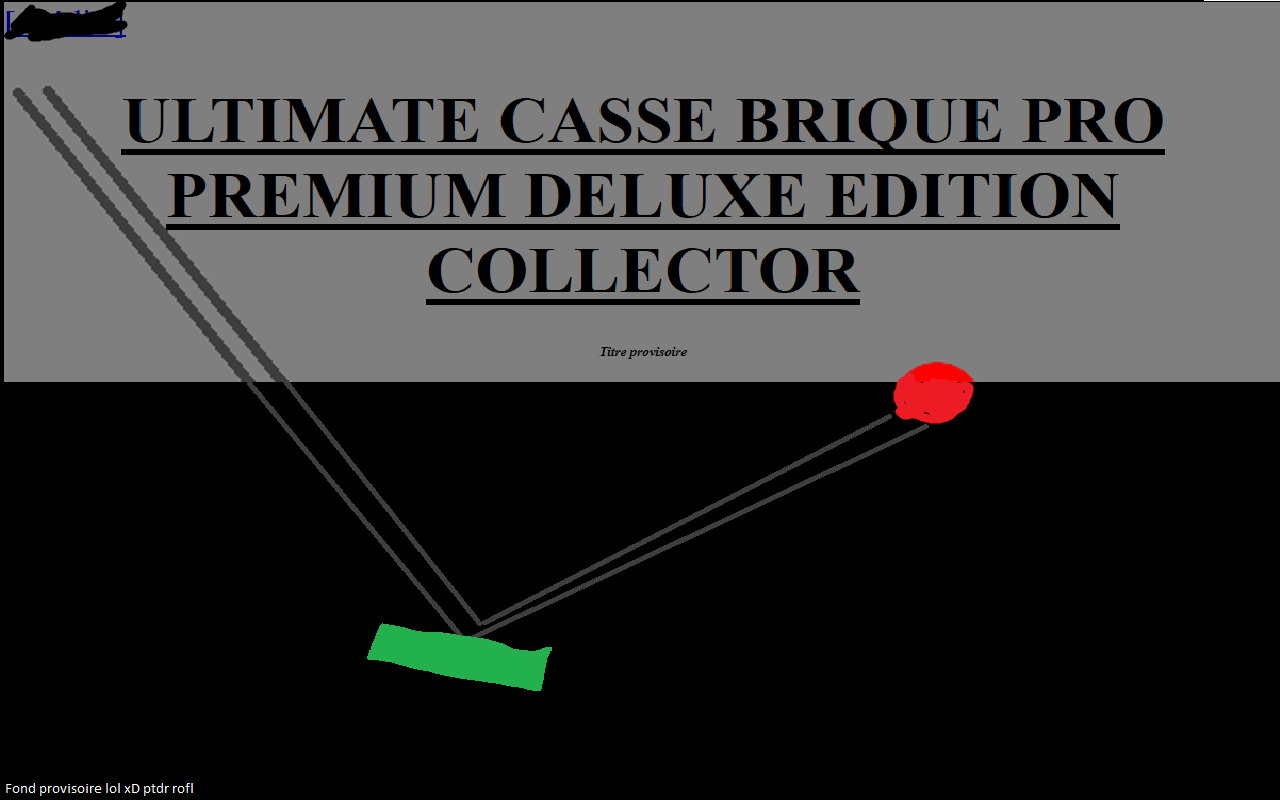
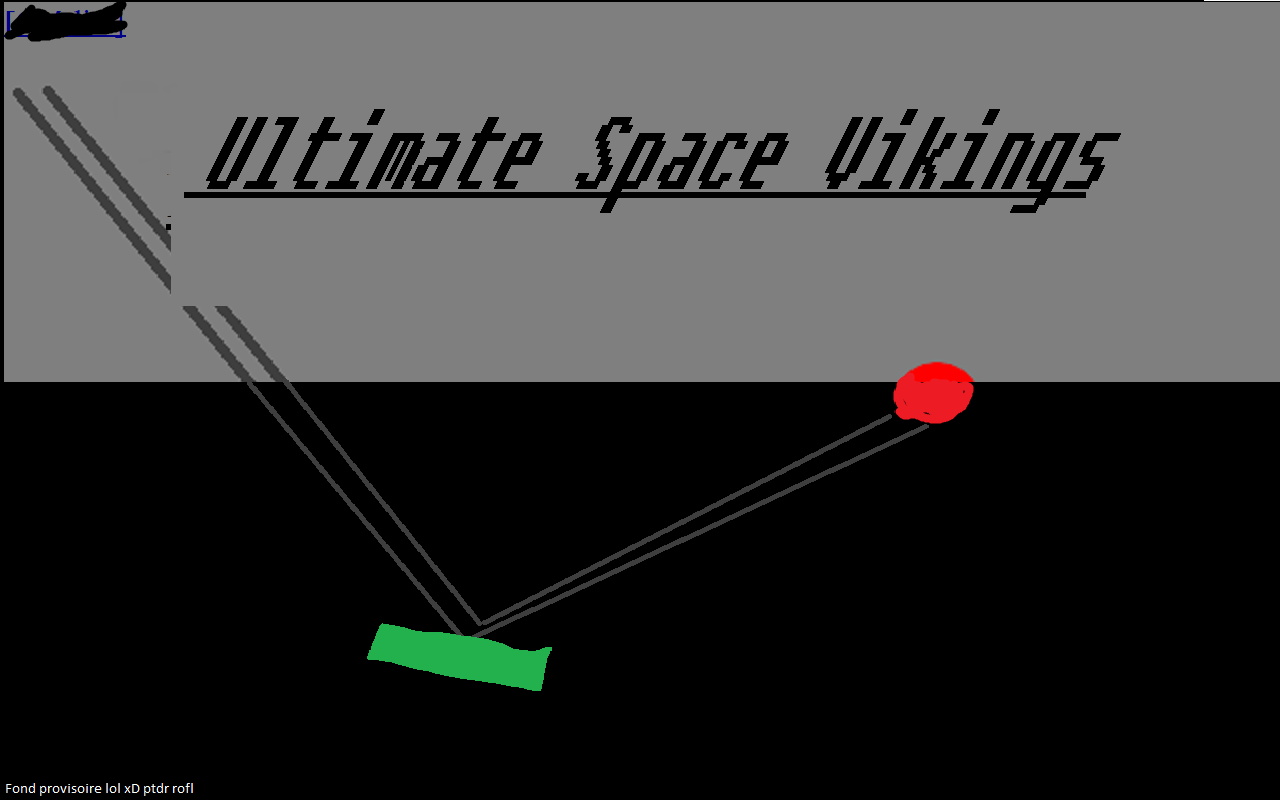
Mettre le nom partout

Changed region(s): [[0.0938, 0.125, 0.9062, 0.4062], [0.4688, 0.4375, 0.5312, 0.4688]]

diff --git a/Proto Anim/levelProto.html b/Proto Anim/levelProto.html
@@ -2,6 +2,7 @@
 <html>
     <head>
         <meta charset="utf-8" />
+        <title>Proto - USV</title>
         <script type="text/javascript" src="levelProto.js"></script>
         <link rel="stylesheet" type="text/css" href="levelProto.css"/>
     </head>
@@ -11,11 +12,12 @@
             <canvas id="canvas" width="1280" height="800"></canvas>
             </th>
             <th>
+                <h2><u><b>Ultimate Space Vikings</b></u></h2><br>
                 <h1>Menu :<br>
                 <a href="../Menu/mainMenu.html">[Accueil]</a><br>
                 <a href="../Nordic/levelNordic.html">[Niveau Suivant]</a><br>
                 </h1>
-                <br><br><br><p>-------------------------------</p><br>
+                <br><p>-------------------------------</p><br>
 				<form name = "forsec">
                     <p>Temps restant du powerup : </p><input id = "compteur" type = "text" size = "3" name = "sec">
 				</form>

diff --git a/Menu/credits.html b/Menu/credits.html
@@ -2,7 +2,7 @@
 <html>
     <head>
         <meta charset="utf-8" />
-        <title>Prototype du menu</title>
+        <title>Crédits - USV</title>
         <link rel="stylesheet" type="text/css" href="credits.css">
         <script>
             var audioBG = new Audio("loading.mp3");
@@ -24,7 +24,7 @@
     </head>
     <body>
         <div id="credits">
-            <h1>Crédits</h1>
+            <h1>Ultimate Space Vikings</h1>
             <h2>Programmation :</h2>
             <h5>Anthony, Gabin, Sébastien, Benjamin</h5>
             <h2>Graphismes :</h2>

diff --git a/Menu/mainMenu.html b/Menu/mainMenu.html
@@ -2,6 +2,7 @@
 <html>
     <head>
         <meta charset="utf-8" />
+        <title>Ultimate Space Vikings</title>
         <script type="text/javascript" src="mainMenu.js"></script>
         <link rel="stylesheet" type="text/css" href="mainMenu.css"/>
     </head>

diff --git a/Proto Anim/levelProto.css b/Proto Anim/levelProto.css
@@ -19,8 +19,14 @@ td, th
 
 h1
 {
-    font-size: 25px;
+    font-size: 23px;
     color: white;
+    text-align: center;
+}
+
+h2{
+    font-size: 25px;
+    color: red;
     text-align: center;
 }
 
